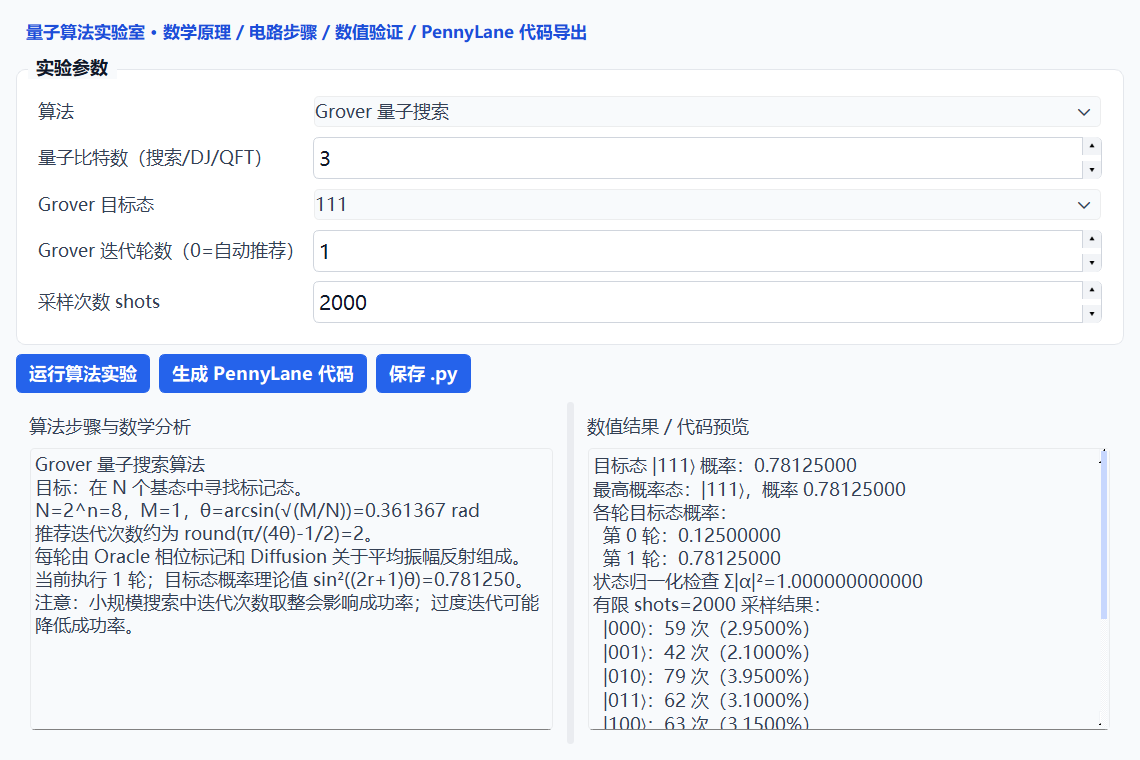
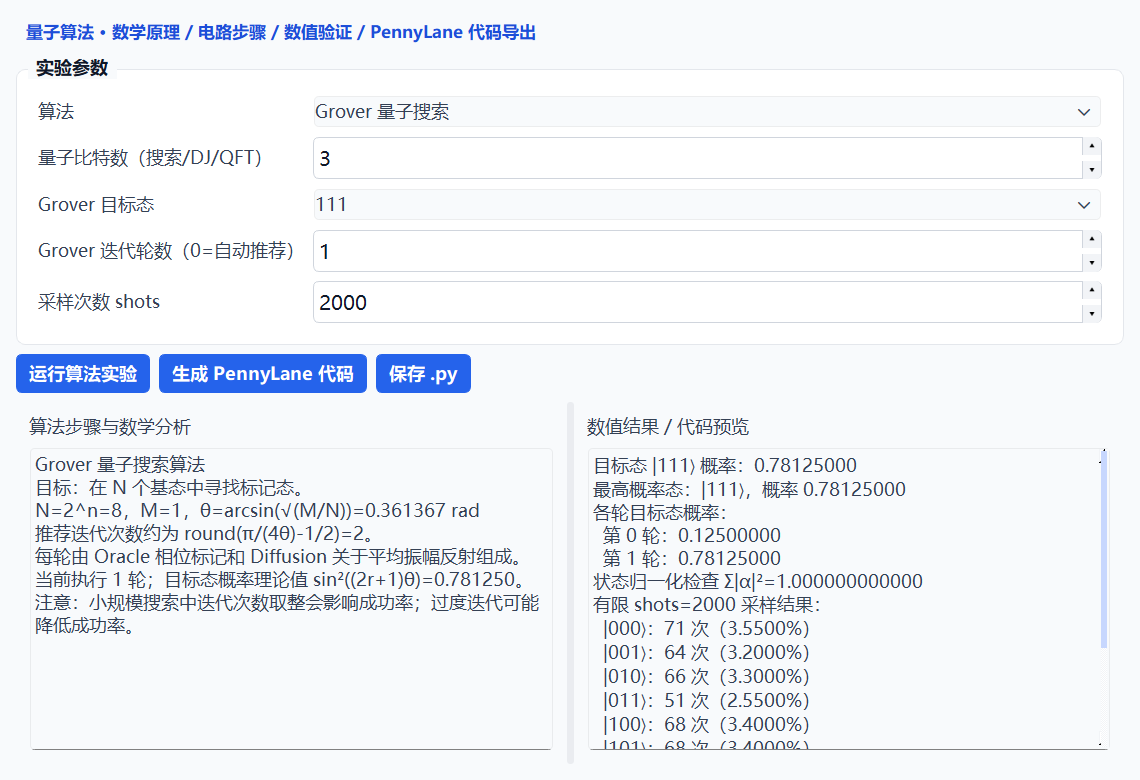
Update

Changed region(s): [[0.0, 0.4539, 0.4912, 0.8474], [0.4912, 0.5145, 0.8289, 0.9684], [0.0, 0.0303, 0.9518, 0.4237]]

diff --git a/quantum_circuit_studio/mixins/ui.py b/quantum_circuit_studio/mixins/ui.py
@@ -40,15 +40,15 @@ class UIMixin:
             )
         )
         intro_row.addStretch(1)
-        self.ai_assistant_button = QPushButton("✦ AI量子助手")
+        self.ai_assistant_button = QPushButton("AI量子助手")
         self.ai_assistant_button.setMinimumHeight(30)
         self.ai_assistant_button.clicked.connect(self.open_ai_assistant)
         intro_row.addWidget(self.ai_assistant_button)
-        self.quantum_demo_button = QPushButton("▶ 量子演化演示")
+        self.quantum_demo_button = QPushButton("量子演化演示")
         self.quantum_demo_button.setMinimumHeight(30)
         self.quantum_demo_button.clicked.connect(self.open_quantum_demo)
         intro_row.addWidget(self.quantum_demo_button)
-        self.algorithm_lab_button = QPushButton("🧪 量子算法实验室")
+        self.algorithm_lab_button = QPushButton("量子算法")
         self.algorithm_lab_button.setMinimumHeight(30)
         self.algorithm_lab_button.clicked.connect(self.open_algorithm_lab)
         intro_row.addWidget(self.algorithm_lab_button)

diff --git a/quantum_circuit_studio/algorithm_lab.py b/quantum_circuit_studio/algorithm_lab.py
@@ -36,11 +36,11 @@ def deutsch_jozsa_code_body(n, balanced, shots):
 class AlgorithmLabDialog(QDialog):
     def __init__(self, parent=None):
         super().__init__(parent)
-        self.setWindowTitle("量子算法实验室")
+        self.setWindowTitle("量子算法")
         self.resize(1100, 780)
         self.last_code = ""
         root = QVBoxLayout(self)
-        intro = QLabel("量子算法实验室 · 数学原理 / 电路步骤 / 数值验证 / PennyLane 代码导出")
+        intro = QLabel("量子算法 · 数学原理 / 电路步骤 / 数值验证 / PennyLane 代码导出")
         intro.setStyleSheet("font-size:17px;font-weight:bold;color:#1d4ed8;padding:5px")
         root.addWidget(intro)
         form_box = QGroupBox("实验参数")

diff --git a/README.md b/README.md
@@ -28,7 +28,7 @@
 - 导出 CSV 数据、图表 PNG、Markdown 实验报告、可直接运行的 PennyLane 代码
 - 电路与实验配置保存 / 加载为 JSON，便于复现与分享
 
-**量子算法实验室**
+**量子算法**
 - Grover 搜索、Deutsch–Jozsa、量子隐形传态、量子傅里叶变换
 - 每种算法给出数学推导、线路步骤、逐轮数值验证与代码导出
 
@@ -40,7 +40,7 @@
 - 解释当前电路的行为，或生成实验报告
 - 未配置 API Key 时其余功能完全可用
 
-![量子算法实验室](docs/screenshot-lab.png)
+![量子算法](docs/screenshot-lab.png)
 
 ## 下载即用（Windows）
 
@@ -127,7 +127,7 @@ quantum-circuit-studio/
 │   ├── thresholds.py                # 教学容限判据 p*(n)（纯 Python，无额外依赖）
 │   ├── widgets.py                   # 量子门工具箱、线路画布、AI 请求线程
 │   ├── main_window.py               # 主窗口：Mixin 组合与配置加载
-│   ├── algorithm_lab.py             # 量子算法实验室（Grover / DJ / 传态 / QFT）
+│   ├── algorithm_lab.py             # 量子算法（Grover / DJ / 传态 / QFT）
 │   ├── quantum_demo.py              # 量子态演化教学演示
 │   └── mixins/
 │       ├── ui.py                    # 界面布局、控件与事件
